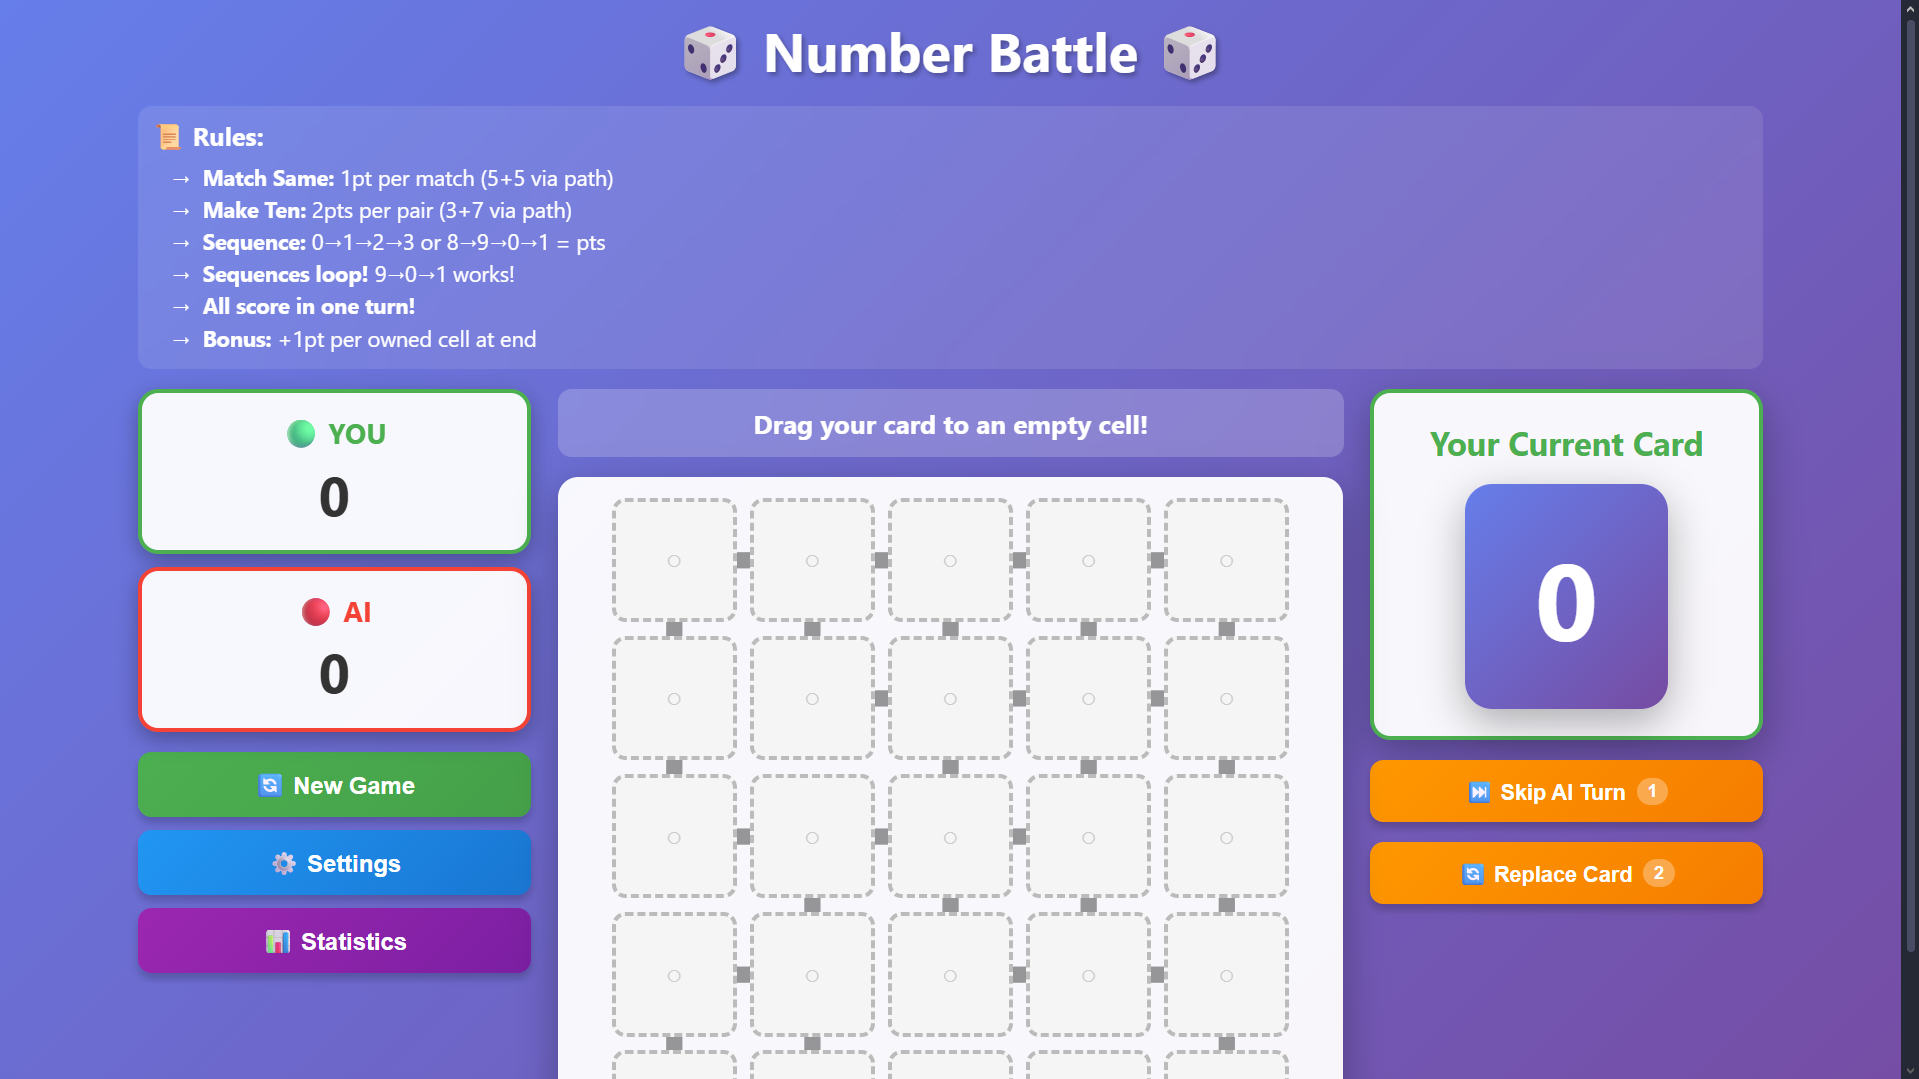
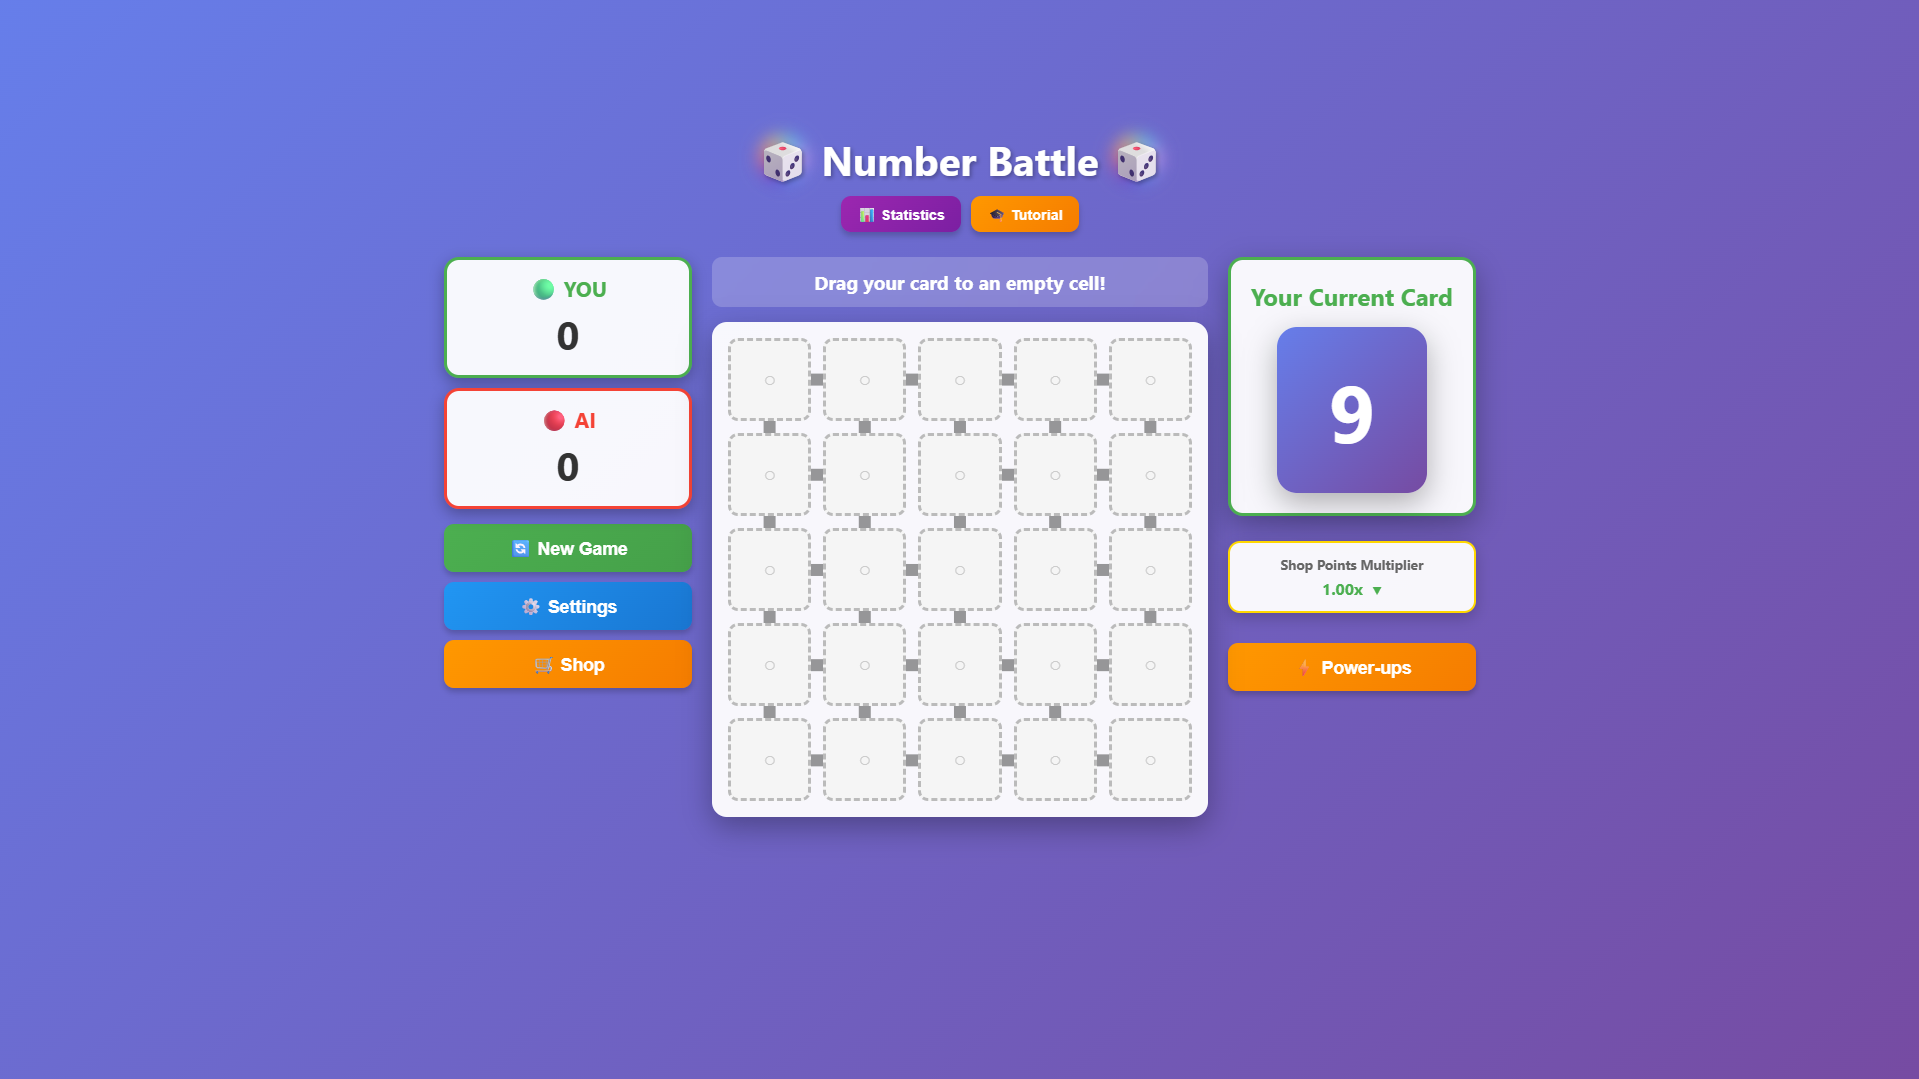
add gamblecore link

diff --git a/index.html b/index.html
@@ -17,6 +17,7 @@
     <main>
       <h2>Projects</h2>
       <ul>
+        <li><a href="https://arpan-shah-102.github.io/gamblecore"><div class="gamblecore"></div></a></li>
         <li><a href="https://arpan-shah-102.github.io/ai-number-battle"><div class="ai-number-battle"></div></a></li>
         <li><a href="https://arpan-shah-102.github.io/water-cycle-quiz"><div class="water-cycle-quiz"></div></a></li>
         <li><a href="https://arpan-shah-102.github.io/rock-paper-scissors-cheat"><div class="rock-paper-scissors-cheat"></div></a></li>

diff --git a/style.css b/style.css
@@ -89,6 +89,7 @@ footer {
   }
 }
 
+.gamblecore {background-image: url('./assets/gamblecore.png');}
 .ai-number-battle {background-image: url('./assets/ai-number-battle.png');}
 .water-cycle-quiz {background-image: url('./assets/water-cycle-quiz.png');}
 .rock-paper-scissors-cheat {background-image: url('./assets/rock-paper-scissors-cheat.png');}
